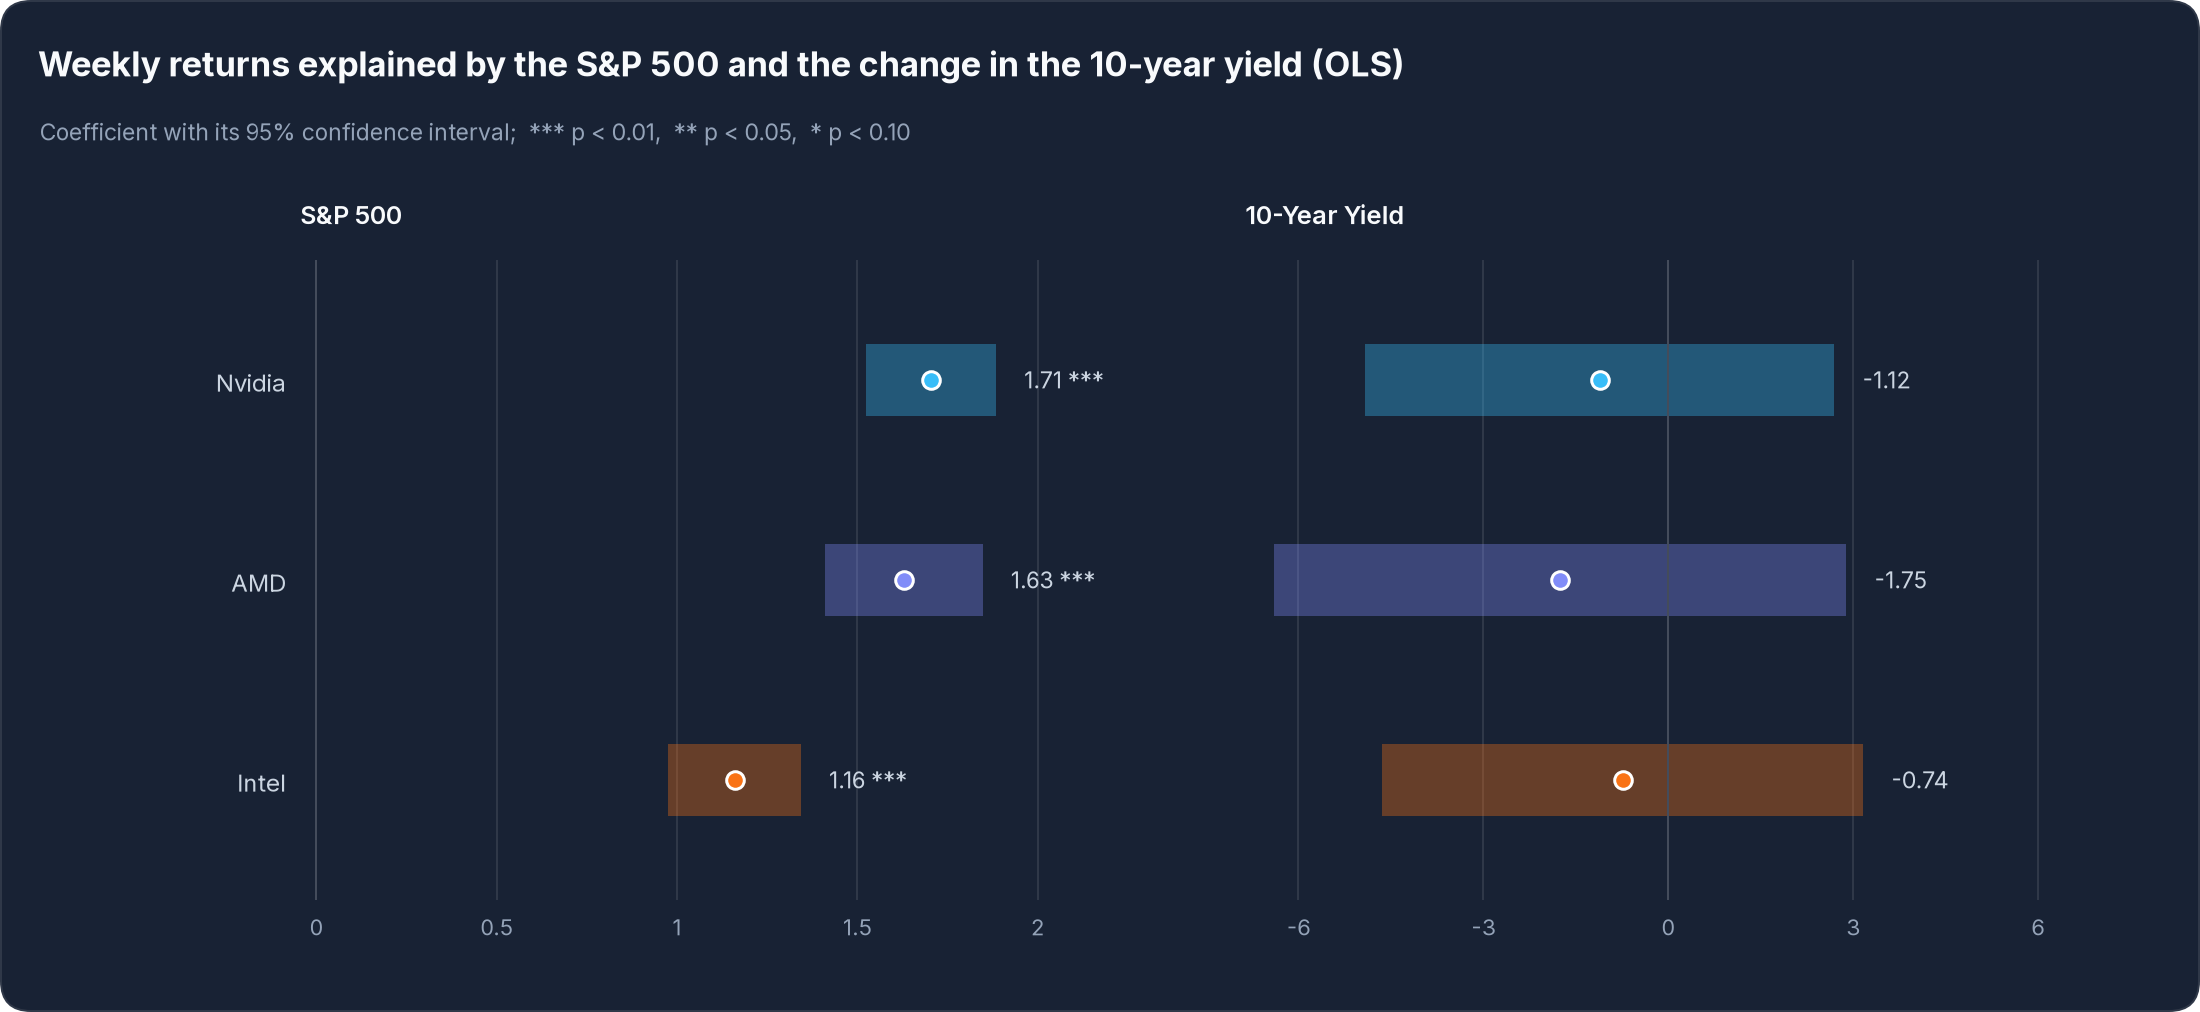
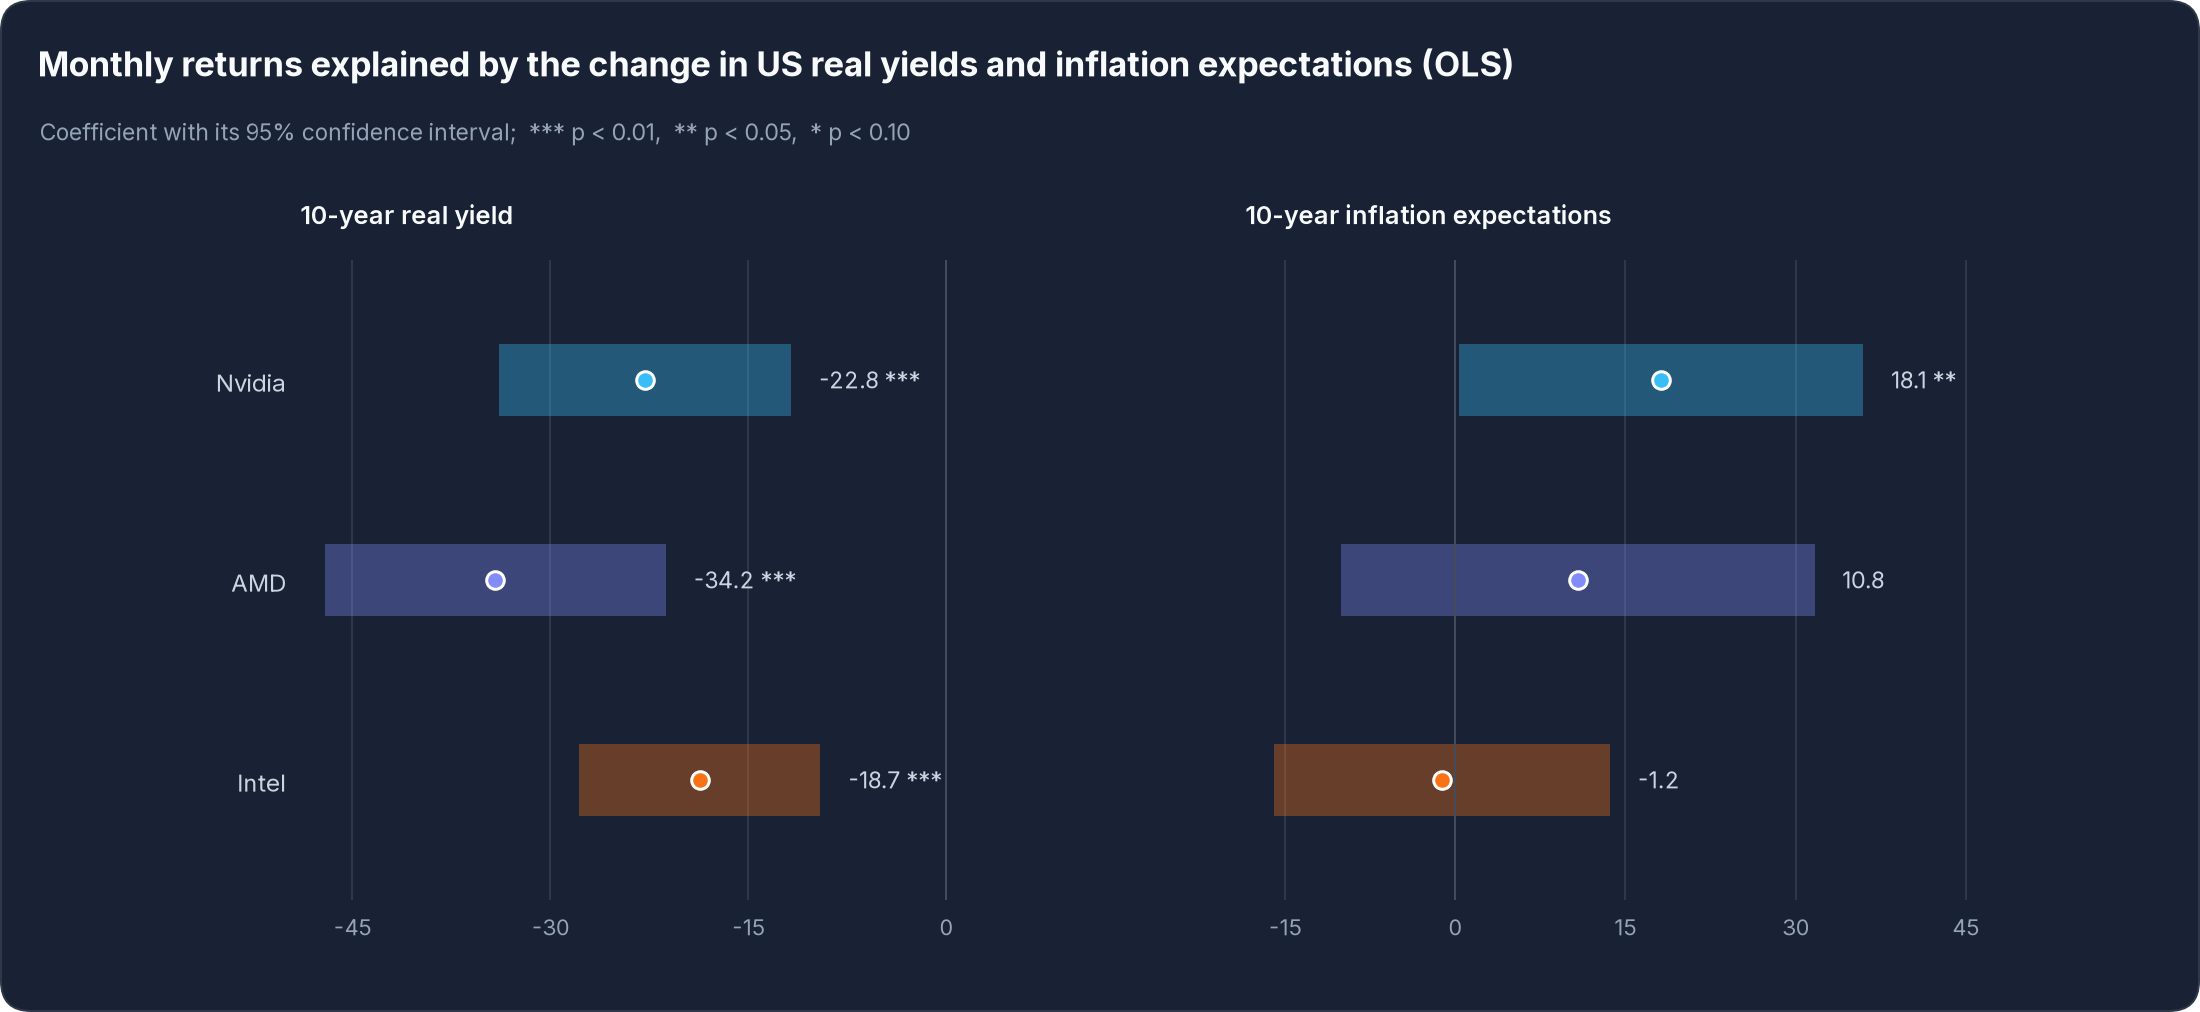
Explain the semiconductor returns with real yields and inflation expectations
The Economic Relations chapter regresses the monthly returns of Nvidia, AMD and Intel on the change in the US 10-year real yield and in 10-year inflation expectations instead of on the S&P 500: the real yield weighs on all three at the 1% level, rising inflation expectations helped Nvidia at the 5% level, and short-term rates show no significant relation. The DuPont chart returns to its bar layout, now for Nvidia.

diff --git a/README.md b/README.md
@@ -241,7 +241,7 @@ For example, the components for Nvidia are shown below.
 | Equity Multiplier       | 1.5931 | 1.4592 | 1.4205 | 1.5846 | 1.6775 | 1.7525 | 1.6428 | 1.4499 | 1.3456 |
 | Return on Equity        | 0.4605 | 0.4926 | 0.2595 | 0.2978 | 0.4483 | 0.1793 | 0.9146 | 1.1918 | 1.0149 |
 
-And below the components and the resulting return on equity are plotted for each of the three companies.
+And below each component is shown for every fiscal year, with the latest value on top, multiplying into the return on equity.
 
 <picture>
   <source media="(prefers-color-scheme: dark)" srcset="https://raw.githubusercontent.com/JerBouma/FinanceToolkit/main/assets/readme/models-dark.png">
@@ -369,25 +369,33 @@ And below inflation and the policy rate are plotted for each month, next to the 
 
 ## Economic Relations
 
-Rates rose and the shares fell, but the whole market fell with them. The [econometrics](https://www.jeroenbouma.com/projects/financetoolkit/docs/econometrics) module separates the two with regressions, tests and forecasts built on `statsmodels` and `linearmodels` (`pip install financetoolkit[econometrics]`). Through the Toolkit it analyzes the returns of its tickers, and on its own, through `Econometrics(data=...)`, any data at all, here the weekly returns of the three and the S&P 500 next to the weekly change in the 10-year Treasury yield:
+Rates rose and the shares fell, but a 10-year Treasury yield is made of two parts: the real yield, the return investors demand on top of inflation, and the inflation they expect over those ten years. The [econometrics](https://www.jeroenbouma.com/projects/financetoolkit/docs/econometrics) module tells such drivers apart with regressions, tests and forecasts built on `statsmodels` and `linearmodels` (`pip install financetoolkit[econometrics]`). Through the Toolkit it analyzes the returns of its tickers, and on its own, through `Econometrics(data=...)`, any data at all, here the monthly returns of the three next to the monthly change in the US 10-year real yield and in 10-year inflation expectations:
 
 ```python
 import pandas as pd
 
 from financetoolkit import Econometrics
 
-# The weekly change in the 10-year Treasury yield next to the weekly returns
-treasury_data = companies.get_treasury_data(period="weekly")
-weekly_returns = historical_data["Return"].copy()
-weekly_returns["10-Year Yield"] = treasury_data["Close"]["10 Year"].diff()
+# The US 10-year real yield and inflation expectations at the end of each month
+real_yield = companies.economics.get_real_yield_curve("United States", period="monthly")
+inflation_expectations = companies.economics.get_breakeven_inflation_expectations(
+    "United States", period="monthly"
+)
+
+# The monthly change in both next to the monthly returns
+monthly_returns = companies.get_historical_data(period="monthly")["Return"][["NVDA", "AMD", "INTC"]]
+monthly_returns["Real Yield"] = real_yield[("United States", "10Y")].diff()
+monthly_returns["Inflation Expectations"] = inflation_expectations[("United States", "10Y")].diff()
 
 # The data are changes already
-econometrics = Econometrics(data=weekly_returns, changes="none")
+econometrics = Econometrics(data=monthly_returns, changes="none")
 
-# Regress the return of each company on the S&P 500 and the 10-year yield
+# Regress the return of each company on the change in the real yield and inflation expectations
 regressions = pd.concat(
     {
-        ticker: econometrics.get_ols(dependent_ticker=ticker, independent_tickers=["Benchmark", "10-Year Yield"])
+        ticker: econometrics.get_ols(
+            dependent_ticker=ticker, independent_tickers=["Real Yield", "Inflation Expectations"]
+        )
         for ticker in ["NVDA", "AMD", "INTC"]
     }
 )
@@ -398,19 +406,19 @@ regressions
 
 For example, the coefficients for each company are shown below.
 
-|                           |   Coefficient |   Std. Error |   t-Statistic |   P-Value |
-|:--------------------------|--------------:|-------------:|--------------:|----------:|
-| ('NVDA', 'Intercept')     |        0.0059 |       0.0024 |        2.4711 |    0.0139 |
-| ('NVDA', 'Benchmark')     |        1.7054 |       0.092  |       18.5318 |    0      |
-| ('NVDA', '10-Year Yield') |       -1.1156 |       1.9448 |       -0.5736 |    0.5665 |
-| ('AMD', 'Intercept')      |        0.005  |       0.0029 |        1.7173 |    0.0867 |
-| ('AMD', 'Benchmark')      |        1.6292 |       0.112  |       14.5426 |    0      |
-| ('AMD', '10-Year Yield')  |       -1.7499 |       2.3675 |       -0.7391 |    0.4602 |
-| ('INTC', 'Intercept')     |       -0.0016 |       0.0024 |       -0.6692 |    0.5038 |
-| ('INTC', 'Benchmark')     |        1.1598 |       0.0943 |       12.2984 |    0      |
-| ('INTC', '10-Year Yield') |       -0.7415 |       1.9929 |       -0.3721 |    0.71   |
+|                                    |   Coefficient |   Std. Error |   t-Statistic |   P-Value |
+|:-----------------------------------|--------------:|-------------:|--------------:|----------:|
+| ('NVDA', 'Intercept')              |        0.049  |       0.0129 |        3.8028 |    0.0003 |
+| ('NVDA', 'Real Yield')             |      -22.8132 |       5.6358 |       -4.0479 |    0.0001 |
+| ('NVDA', 'Inflation Expectations') |       18.1329 |       9.1029 |        1.992  |    0.0493 |
+| ('AMD', 'Intercept')               |        0.047  |       0.0151 |        3.1182 |    0.0024 |
+| ('AMD', 'Real Yield')              |      -34.1771 |       6.59   |       -5.1862 |    0      |
+| ('AMD', 'Inflation Expectations')  |       10.8116 |      10.644  |        1.0157 |    0.3124 |
+| ('INTC', 'Intercept')              |        0.0078 |       0.0107 |        0.7316 |    0.4663 |
+| ('INTC', 'Real Yield')             |      -18.6985 |       4.6705 |       -4.0035 |    0.0001 |
+| ('INTC', 'Inflation Expectations') |       -1.1572 |       7.5438 |       -0.1534 |    0.8784 |
 
-And below each coefficient is shown with its 95% confidence interval. A coefficient of 1.5 on the S&P 500 means the share moved 1.5% for every 1% the market moved, and a coefficient of -1 on the 10-year yield means a weekly return 1% lower for every percentage point the yield rose, on top of what the market explains.
+And below each coefficient is shown with its 95% confidence interval. The yields are decimals, so a change of 0.001 is 0.1 percentage point, and a coefficient of -20 means a monthly return 2% lower for every 0.1 percentage point the yield rose. All three are valued on earnings that lie far ahead, which a higher real yield discounts more heavily: a 0.1 percentage point rise in the real yield went with a monthly return about 2.3% lower for Nvidia, 3.4% lower for AMD and 1.9% lower for Intel, each significant at the 1% level. Rising inflation expectations, often a sign of a growing economy, went with a higher return for Nvidia, significant at the 5% level, but made no significant difference for AMD and Intel. Short-term rates matter less than they might seem: the 3-month yield shows no significant relation with these returns, as the Federal Reserve's policy rate reaches growth companies mainly through the long-term real yields it moves.
 
 <picture>
   <source media="(prefers-color-scheme: dark)" srcset="https://raw.githubusercontent.com/JerBouma/FinanceToolkit/main/assets/readme/econometrics-dark.png">
